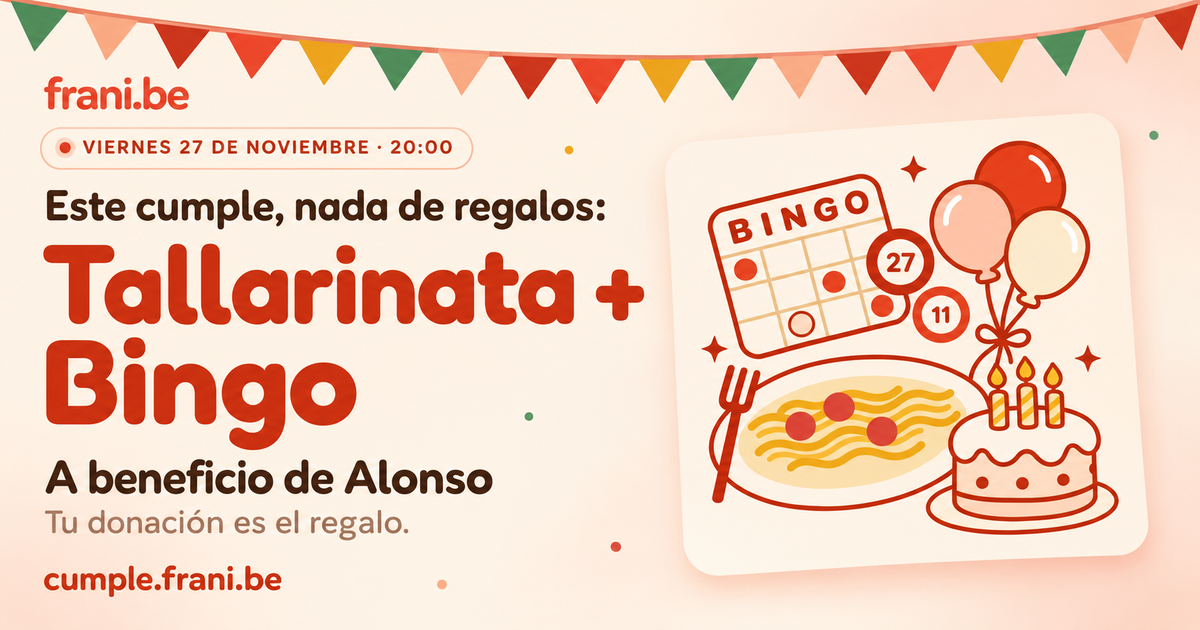
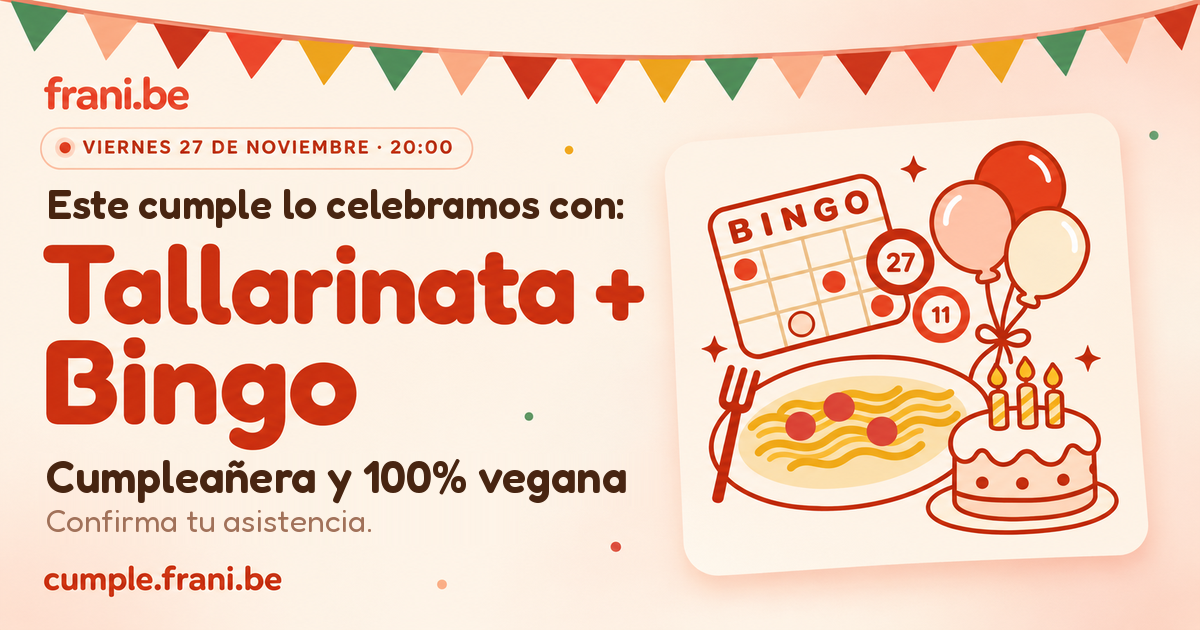
Elimina la historia de Alonso y las donaciones por Mercado Pago

Changed region(s): [[0.0308, 0.7238, 0.5242, 0.8746], [0.0308, 0.3016, 0.5242, 0.3619]]

diff --git a/src/styles/global.css b/src/styles/global.css
@@ -1826,19 +1826,7 @@ button:not(:disabled) {
   animation: float-slow 7s ease-in-out infinite;
   transform-origin: center;
 }
-/* ── Tema tallarinata: mantel a cuadros, bolillas de bingo, acentos ── */
-.mantel-bg {
-  background-image:
-    linear-gradient(90deg, rgba(232, 73, 44, 0.055) 50%, transparent 50%),
-    linear-gradient(0deg, rgba(232, 73, 44, 0.055) 50%, transparent 50%);
-  background-size: 46px 46px;
-}
-.dark .mantel-bg {
-  background-image:
-    linear-gradient(90deg, rgba(255, 158, 120, 0.05) 50%, transparent 50%),
-    linear-gradient(0deg, rgba(255, 158, 120, 0.05) 50%, transparent 50%);
-}
-
+/* ── Tema tallarinata: bolillas de bingo, acentos ── */
 /* Bolillas de bingo decorativas flotando sobre el hero */
 .bingo-ball {
   position: absolute;
@@ -1885,25 +1873,7 @@ button:not(:disabled) {
 /* Ilustración hero tipo sticker levemente rotada */
 .sticker-tilt { transform: rotate(-2.5deg); }
 
-/* Banda destacada para la sección de donaciones */
-.donar-band {
-  background:
-    radial-gradient(42rem 22rem at 50% 0%, rgba(255, 255, 255, 0.75), transparent 70%),
-    linear-gradient(160deg, #fff3e2 0%, #ffe3cf 100%);
-  border-top: 1.5px solid var(--color-border-soft);
-  border-bottom: 1.5px solid var(--color-border-soft);
-}
-.dark .donar-band {
-  background:
-    radial-gradient(42rem 22rem at 50% 0%, rgba(255, 158, 120, 0.07), transparent 70%),
-    linear-gradient(160deg, #2e1a10 0%, #3a2415 100%);
-}
-.donacion-card--destacada {
-  border: 2.5px solid var(--color-custom-purple-dark);
-  box-shadow: 0 16px 36px -14px rgba(194, 53, 31, 0.4);
-}
-
-/* ── Cumpleaños: guirnalda, confeti, firma, cuenta regresiva, logo MP ── */
+/* ── Cumpleaños: guirnalda, confeti, firma, cuenta regresiva ── */
 .banderines {
   position: absolute;
   top: 4.6rem;
@@ -2066,19 +2036,6 @@ button:not(:disabled) {
   padding: 1rem 0;
 }
 .rsvp-done .firma { font-size: 2.2rem; }
-
-/* Logo Mercado Pago: el asset es blanco, va sobre su azul de marca */
-.mp-badge {
-  display: inline-flex;
-  align-items: center;
-  justify-content: center;
-  background: #00b1ea;
-  border-radius: var(--radius-input);
-  padding: 0.25rem 0.45rem;
-}
-.mp-badge img { display: block; height: 4.25rem; width: auto; }
-.mp-badge--sm { padding: 0.15rem 0.3rem; border-radius: 0.6rem; }
-.mp-badge--sm img { height: 2.1rem; }
 
 /* Respeta reduced-motion: desactiva animaciones y transiciones decorativas */
 @media (prefers-reduced-motion: reduce) {

diff --git a/.devin/rules/project-context.md b/.devin/rules/project-context.md
@@ -1,6 +1,6 @@
 # Contexto del proyecto
 
-Landing de invitación al cumpleaños de Frani (`cumple.frani.be`): **tallarinata + bingo** a beneficio de su amigo Alonso, que perdió la inversión de su tienda en Pichilemu tras un robo. En vez de regalos se piden donaciones por Mercado Pago.
+Landing de invitación al cumpleaños de Frani (`cumple.frani.be`): **tallarinata + bingo** cumpleañera con formulario RSVP. Ya no hay causa, donaciones ni links de Mercado Pago (se eliminaron a pedido de Frani): no volver a agregarlos.
 
 ## Stack
 
@@ -12,8 +12,8 @@ Landing de invitación al cumpleaños de Frani (`cumple.frani.be`): **tallarinat
 
 ## Estructura
 
-- `src/pages/index.astro`: toda la página (hero, causa, detalles, donaciones, beneficios Mercado Pago).
-- `src/layouts/BaseLayout.astro`: head/meta/OG, nav mínimo (logo + CTA Donar + toggle tema), footer con gradiente.
+- `src/pages/index.astro`: toda la página (hero, detalles de la fiesta, cierre con RSVP `#confirmar`).
+- `src/layouts/BaseLayout.astro`: head/meta/OG, nav mínimo (logo + CTA Confirmar + toggle tema), footer con gradiente.
 - `src/components/`: componentes reutilizados de frani.be (`EmbroideryPattern`, `ArrowIcon`, etc.).
 - `public/images/icons.svg`: sprite con `#logo` y rrss. Las ilustraciones nuevas (`tallarinata.svg`, etc.) son placeholders que Frani reemplaza manteniendo el nombre de archivo.
 - `public/CNAME`: `cumple.frani.be` para GitHub Pages.
@@ -21,12 +21,7 @@ Landing de invitación al cumpleaños de Frani (`cumple.frani.be`): **tallarinat
 ## Datos del evento
 
 - Fecha: viernes 27 de noviembre de 2026.
-- Donaciones Mercado Pago:
-  - $5.000 → https://mpago.la/2rPVwuB
-  - $15.000 → https://mpago.la/1Zim2jM
-  - $30.000 → https://mpago.la/2z3PFd5
-  - Monto libre → https://link.mercadopago.cl/cumplefranibe
-- Hora: 20:00. Entrada liberada (la donación reemplaza al regalo). La tallarinata es 100% vegana.
+- Hora: 20:00. Entrada liberada. La tallarinata es 100% vegana.
 - RSVP campos: nombre, email (invitación Google Calendar), whatsapp (recordatorio), vienes (si/quizas), amigos (desplegable 0 a 4+), tiene_rest (si/no, si "si" muestra input restricciones).
 - RSVP: formulario embebido en la sección de cierre que hace POST (`no-cors`) al Google Apps Script web app (desplegado, endpoint real en `RSVP_ENDPOINT` de `src/pages/index.astro`), que escribe en la pestaña "Respuestas" de una Sheet de Drive. El código está en `apps-script/Code.gs`.
 - Pendiente de confirmar con Frani: lugar/dirección, URL real del Apps Script `/exec`.
@@ -50,7 +45,7 @@ Landing de invitación al cumpleaños de Frani (`cumple.frani.be`): **tallarinat
 
 ## Convenciones de contenido
 
-- UI en español chileno con tuteo estándar: "Ven", "Dona", "Confirma", "Puedes".
-- NO usar voseo rioplatense: evitar "Tenés", "Podés", "Vení", "Doná".
+- UI en español chileno con tuteo estándar: "Ven", "Confirma", "Puedes".
+- NO usar voseo rioplatense: evitar "Tenés", "Podés", "Vení".
 - Tono cercano y festivo, sin perder claridad en los datos logísticos.
 - Regla global: no usar el caracter "—" (guión largo) en copy ni comentarios; usar ",", "()" o ".".

diff --git a/README.md b/README.md
@@ -1,8 +1,6 @@
 # cumple.frani.be
 
-Invitación al cumpleaños de Frani: **tallarinata + bingo** a beneficio de Alonso, que perdió la inversión de su tienda en Pichilemu tras un robo.
-
-En vez de regalos: donaciones por Mercado Pago.
+Invitación al cumpleaños de Frani: **tallarinata + bingo**, con formulario de confirmación de asistencia.
 
 ## Desarrollo
 
